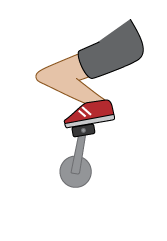
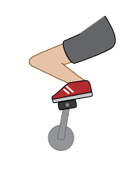
Integrated new artwork that reduces the size of the biker.

diff --git a/trunk/simulations-java/simulations/energy-forms-and-changes/src/edu/colorado/phet/energyformsandchanges/energysystems/model/BicycleAndRider.java b/trunk/simulations-java/simulations/energy-forms-and-changes/src/edu/colorado/phet/energyformsandchanges/energysystems/model/BicycleAndRider.java
@@ -41,42 +41,42 @@ public class BicycleAndRider extends EnergySource {
     // aren't really to scale, since there are so many things in this model
     // with very different scales.
     public static final ModelElementImage FRAME_IMAGE = new ModelElementImage( BICYCLE_FRAME_2, FRAME_CENTER_OFFSET );
-    public static final ModelElementImage REAR_WHEEL_SPOKES_IMAGE = new ModelElementImage( BICYCLE_SPOKES, FRAME_CENTER_OFFSET.plus( new Vector2D( 0.043, -0.026 ) ) );
-    public static final ModelElementImage RIDER_IMAGE = new ModelElementImage( BICYCLE_RIDER, FRAME_CENTER_OFFSET.plus( new Vector2D( -0.004, 0.078 ) ) );
+    public static final ModelElementImage REAR_WHEEL_SPOKES_IMAGE = new ModelElementImage( BICYCLE_SPOKES, FRAME_CENTER_OFFSET.plus( new Vector2D( 0.035, -0.020 ) ) );
+    public static final ModelElementImage RIDER_UPPER_BODY_IMAGE = new ModelElementImage( BICYCLE_RIDER, FRAME_CENTER_OFFSET.plus( new Vector2D( -0.0025, 0.062 ) ) );
 
-    private static final Vector2D LEG_IMAGE_OFFSET = new Vector2D( 0.010, 0.002 );
+    private static final Vector2D LEG_IMAGE_OFFSET = new Vector2D( 0.009, 0.002 );
     public static final List<ModelElementImage> FRONT_LEG_IMAGES = new ArrayList<ModelElementImage>() {{
-        add( new ModelElementImage( FRONT_LEG_01, FRAME_CENTER_OFFSET.plus( LEG_IMAGE_OFFSET ) ) );
-        add( new ModelElementImage( FRONT_LEG_02, FRAME_CENTER_OFFSET.plus( LEG_IMAGE_OFFSET ) ) );
-        add( new ModelElementImage( FRONT_LEG_03, FRAME_CENTER_OFFSET.plus( LEG_IMAGE_OFFSET ) ) );
-        add( new ModelElementImage( FRONT_LEG_04, FRAME_CENTER_OFFSET.plus( LEG_IMAGE_OFFSET ) ) );
-        add( new ModelElementImage( FRONT_LEG_05, FRAME_CENTER_OFFSET.plus( LEG_IMAGE_OFFSET ) ) );
-        add( new ModelElementImage( FRONT_LEG_06, FRAME_CENTER_OFFSET.plus( LEG_IMAGE_OFFSET ) ) );
-        add( new ModelElementImage( FRONT_LEG_07, FRAME_CENTER_OFFSET.plus( LEG_IMAGE_OFFSET ) ) );
-        add( new ModelElementImage( FRONT_LEG_08, FRAME_CENTER_OFFSET.plus( LEG_IMAGE_OFFSET ) ) );
-        add( new ModelElementImage( FRONT_LEG_09, FRAME_CENTER_OFFSET.plus( LEG_IMAGE_OFFSET ) ) );
+        add( new ModelElementImage( FRONT_LEG_1, FRAME_CENTER_OFFSET.plus( LEG_IMAGE_OFFSET ) ) );
+        add( new ModelElementImage( FRONT_LEG_2, FRAME_CENTER_OFFSET.plus( LEG_IMAGE_OFFSET ) ) );
+        add( new ModelElementImage( FRONT_LEG_3, FRAME_CENTER_OFFSET.plus( LEG_IMAGE_OFFSET ) ) );
+        add( new ModelElementImage( FRONT_LEG_4, FRAME_CENTER_OFFSET.plus( LEG_IMAGE_OFFSET ) ) );
+        add( new ModelElementImage( FRONT_LEG_5, FRAME_CENTER_OFFSET.plus( LEG_IMAGE_OFFSET ) ) );
+        add( new ModelElementImage( FRONT_LEG_6, FRAME_CENTER_OFFSET.plus( LEG_IMAGE_OFFSET ) ) );
+        add( new ModelElementImage( FRONT_LEG_7, FRAME_CENTER_OFFSET.plus( LEG_IMAGE_OFFSET ) ) );
+        add( new ModelElementImage( FRONT_LEG_8, FRAME_CENTER_OFFSET.plus( LEG_IMAGE_OFFSET ) ) );
+        add( new ModelElementImage( FRONT_LEG_9, FRAME_CENTER_OFFSET.plus( LEG_IMAGE_OFFSET ) ) );
         add( new ModelElementImage( FRONT_LEG_10, FRAME_CENTER_OFFSET.plus( LEG_IMAGE_OFFSET ) ) );
         add( new ModelElementImage( FRONT_LEG_11, FRAME_CENTER_OFFSET.plus( LEG_IMAGE_OFFSET ) ) );
         add( new ModelElementImage( FRONT_LEG_12, FRAME_CENTER_OFFSET.plus( LEG_IMAGE_OFFSET ) ) );
     }};
 
     public static final List<ModelElementImage> BACK_LEG_IMAGES = new ArrayList<ModelElementImage>() {{
-        add( new ModelElementImage( BACK_LEG_01, FRAME_CENTER_OFFSET.plus( LEG_IMAGE_OFFSET ) ) );
-        add( new ModelElementImage( BACK_LEG_02, FRAME_CENTER_OFFSET.plus( LEG_IMAGE_OFFSET ) ) );
-        add( new ModelElementImage( BACK_LEG_03, FRAME_CENTER_OFFSET.plus( LEG_IMAGE_OFFSET ) ) );
-        add( new ModelElementImage( BACK_LEG_04, FRAME_CENTER_OFFSET.plus( LEG_IMAGE_OFFSET ) ) );
-        add( new ModelElementImage( BACK_LEG_05, FRAME_CENTER_OFFSET.plus( LEG_IMAGE_OFFSET ) ) );
-        add( new ModelElementImage( BACK_LEG_06, FRAME_CENTER_OFFSET.plus( LEG_IMAGE_OFFSET ) ) );
-        add( new ModelElementImage( BACK_LEG_07, FRAME_CENTER_OFFSET.plus( LEG_IMAGE_OFFSET ) ) );
-        add( new ModelElementImage( BACK_LEG_08, FRAME_CENTER_OFFSET.plus( LEG_IMAGE_OFFSET ) ) );
-        add( new ModelElementImage( BACK_LEG_09, FRAME_CENTER_OFFSET.plus( LEG_IMAGE_OFFSET ) ) );
+        add( new ModelElementImage( BACK_LEG_1, FRAME_CENTER_OFFSET.plus( LEG_IMAGE_OFFSET ) ) );
+        add( new ModelElementImage( BACK_LEG_2, FRAME_CENTER_OFFSET.plus( LEG_IMAGE_OFFSET ) ) );
+        add( new ModelElementImage( BACK_LEG_3, FRAME_CENTER_OFFSET.plus( LEG_IMAGE_OFFSET ) ) );
+        add( new ModelElementImage( BACK_LEG_4, FRAME_CENTER_OFFSET.plus( LEG_IMAGE_OFFSET ) ) );
+        add( new ModelElementImage( BACK_LEG_5, FRAME_CENTER_OFFSET.plus( LEG_IMAGE_OFFSET ) ) );
+        add( new ModelElementImage( BACK_LEG_6, FRAME_CENTER_OFFSET.plus( LEG_IMAGE_OFFSET ) ) );
+        add( new ModelElementImage( BACK_LEG_7, FRAME_CENTER_OFFSET.plus( LEG_IMAGE_OFFSET ) ) );
+        add( new ModelElementImage( BACK_LEG_8, FRAME_CENTER_OFFSET.plus( LEG_IMAGE_OFFSET ) ) );
+        add( new ModelElementImage( BACK_LEG_9, FRAME_CENTER_OFFSET.plus( LEG_IMAGE_OFFSET ) ) );
         add( new ModelElementImage( BACK_LEG_10, FRAME_CENTER_OFFSET.plus( LEG_IMAGE_OFFSET ) ) );
         add( new ModelElementImage( BACK_LEG_11, FRAME_CENTER_OFFSET.plus( LEG_IMAGE_OFFSET ) ) );
         add( new ModelElementImage( BACK_LEG_12, FRAME_CENTER_OFFSET.plus( LEG_IMAGE_OFFSET ) ) );
     }};
 
     private static final List<ModelElementImage> IMAGE_LIST = new ArrayList<ModelElementImage>() {{
-        add( RIDER_IMAGE );
+        add( RIDER_UPPER_BODY_IMAGE );
         add( REAR_WHEEL_SPOKES_IMAGE );
         add( FRAME_IMAGE );
     }};

diff --git a/trunk/simulations-java/simulations/energy-forms-and-changes/src/edu/colorado/phet/energyformsandchanges/EnergyFormsAndChangesResources.java b/trunk/simulations-java/simulations/energy-forms-and-changes/src/edu/colorado/phet/energyformsandchanges/EnergyFormsAndChangesResources.java
@@ -31,9 +31,18 @@ public class EnergyFormsAndChangesResources {
         public static final BufferedImage BACK_LEG_07 = RESOURCES.getImage( "back_leg_07.png" );
         public static final BufferedImage BACK_LEG_08 = RESOURCES.getImage( "back_leg_08.png" );
         public static final BufferedImage BACK_LEG_09 = RESOURCES.getImage( "back_leg_09.png" );
+        public static final BufferedImage BACK_LEG_1 = RESOURCES.getImage( "back_leg_1.png" );
         public static final BufferedImage BACK_LEG_10 = RESOURCES.getImage( "back_leg_10.png" );
         public static final BufferedImage BACK_LEG_11 = RESOURCES.getImage( "back_leg_11.png" );
         public static final BufferedImage BACK_LEG_12 = RESOURCES.getImage( "back_leg_12.png" );
+        public static final BufferedImage BACK_LEG_2 = RESOURCES.getImage( "back_leg_2.png" );
+        public static final BufferedImage BACK_LEG_3 = RESOURCES.getImage( "back_leg_3.png" );
+        public static final BufferedImage BACK_LEG_4 = RESOURCES.getImage( "back_leg_4.png" );
+        public static final BufferedImage BACK_LEG_5 = RESOURCES.getImage( "back_leg_5.png" );
+        public static final BufferedImage BACK_LEG_6 = RESOURCES.getImage( "back_leg_6.png" );
+        public static final BufferedImage BACK_LEG_7 = RESOURCES.getImage( "back_leg_7.png" );
+        public static final BufferedImage BACK_LEG_8 = RESOURCES.getImage( "back_leg_8.png" );
+        public static final BufferedImage BACK_LEG_9 = RESOURCES.getImage( "back_leg_9.png" );
         public static final BufferedImage BICYCLE_ALL = RESOURCES.getImage( "bicycle_all.png" );
         public static final BufferedImage BICYCLE_BACK_LEG_1 = RESOURCES.getImage( "bicycle_back_leg_1.png" );
         public static final BufferedImage BICYCLE_FRAME = RESOURCES.getImage( "bicycle_frame.png" );
@@ -71,9 +80,18 @@ public class EnergyFormsAndChangesResources {
         public static final BufferedImage FRONT_LEG_07 = RESOURCES.getImage( "front_leg_07.png" );
         public static final BufferedImage FRONT_LEG_08 = RESOURCES.getImage( "front_leg_08.png" );
         public static final BufferedImage FRONT_LEG_09 = RESOURCES.getImage( "front_leg_09.png" );
+        public static final BufferedImage FRONT_LEG_1 = RESOURCES.getImage( "front_leg_1.png" );
         public static final BufferedImage FRONT_LEG_10 = RESOURCES.getImage( "front_leg_10.png" );
         public static final BufferedImage FRONT_LEG_11 = RESOURCES.getImage( "front_leg_11.png" );
         public static final BufferedImage FRONT_LEG_12 = RESOURCES.getImage( "front_leg_12.png" );
+        public static final BufferedImage FRONT_LEG_2 = RESOURCES.getImage( "front_leg_2.png" );
+        public static final BufferedImage FRONT_LEG_3 = RESOURCES.getImage( "front_leg_3.png" );
+        public static final BufferedImage FRONT_LEG_4 = RESOURCES.getImage( "front_leg_4.png" );
+        public static final BufferedImage FRONT_LEG_5 = RESOURCES.getImage( "front_leg_5.png" );
+        public static final BufferedImage FRONT_LEG_6 = RESOURCES.getImage( "front_leg_6.png" );
+        public static final BufferedImage FRONT_LEG_7 = RESOURCES.getImage( "front_leg_7.png" );
+        public static final BufferedImage FRONT_LEG_8 = RESOURCES.getImage( "front_leg_8.png" );
+        public static final BufferedImage FRONT_LEG_9 = RESOURCES.getImage( "front_leg_9.png" );
         public static final BufferedImage GENERATOR = RESOURCES.getImage( "generator.png" );
         public static final BufferedImage GENERATOR_ICON = RESOURCES.getImage( "generator_icon.png" );
         public static final BufferedImage GENERATOR_WHEEL = RESOURCES.getImage( "generator_wheel.png" );

diff --git a/trunk/simulations-java/simulations/energy-forms-and-changes/src/edu/colorado/phet/energyformsandchanges/energysystems/view/BicycleAndRiderNode.java b/trunk/simulations-java/simulations/energy-forms-and-changes/src/edu/colorado/phet/energyformsandchanges/energysystems/view/BicycleAndRiderNode.java
@@ -68,7 +68,7 @@ public class BicycleAndRiderNode extends PNode {
         } );
 
         // Add the upper body.
-        addChild( new ModelElementImageNode( BicycleAndRider.RIDER_IMAGE, mvt ) );
+        addChild( new ModelElementImageNode( BicycleAndRider.RIDER_UPPER_BODY_IMAGE, mvt ) );
 
         // Add and observer that will turn the back wheel.
         final Point2D wheelRotationPoint = new Point2D.Double( spokesImage.getFullBoundsReference().getCenterX(),
@@ -90,9 +90,6 @@ public class BicycleAndRiderNode extends PNode {
                 setOffset( mvt.modelToView( immutableVector2D ).toPoint2D() );
             }
         } );
-
-        // TODO: Temp - for prototyping - remove.
-        setScale( 0.8 );
     }
 
     private static class CrankRateSlider extends PNode {
